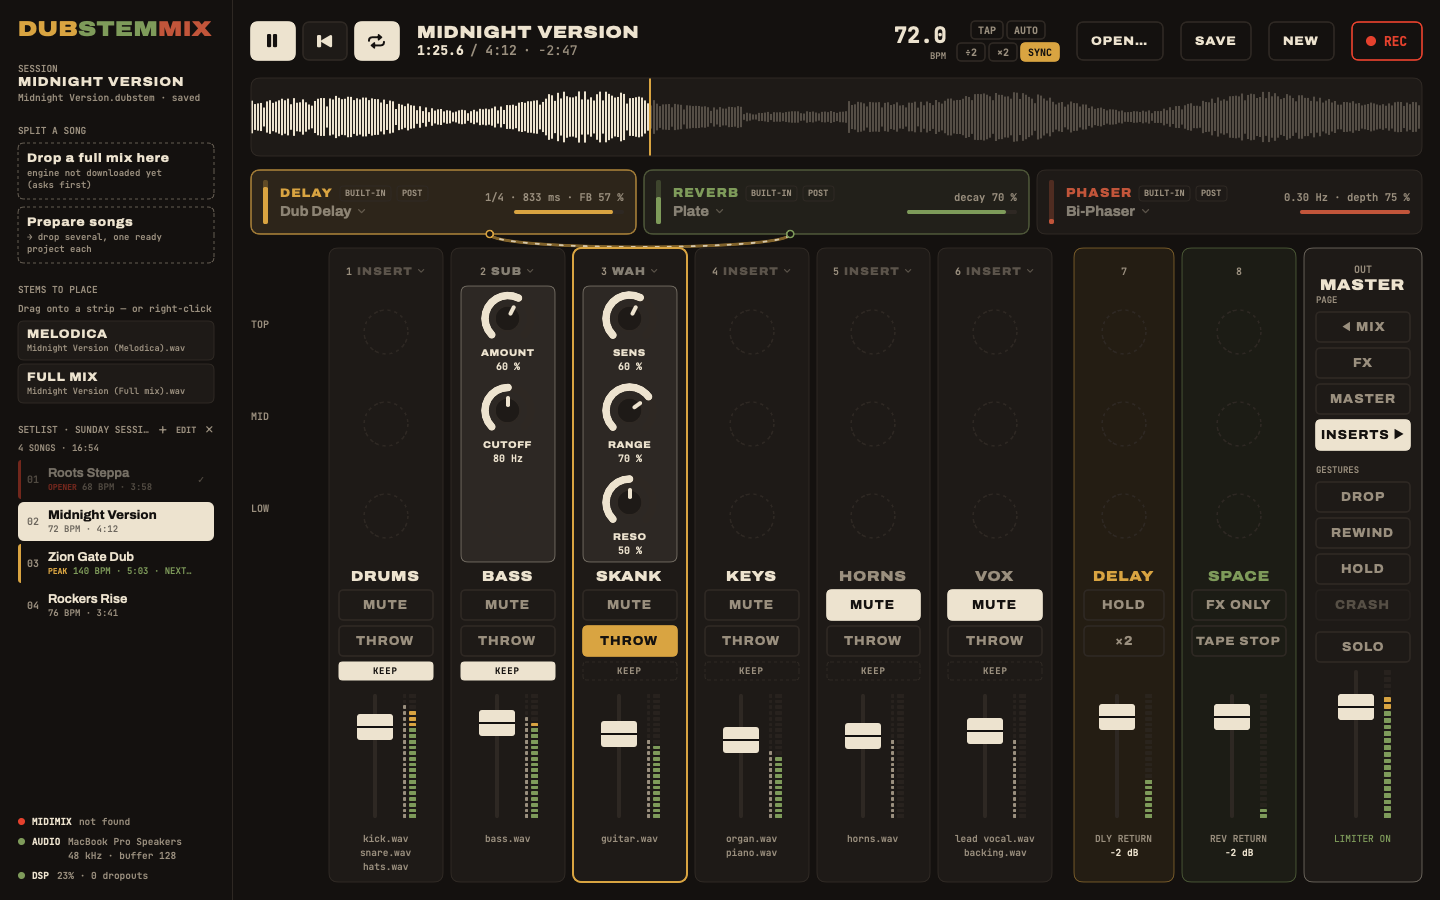
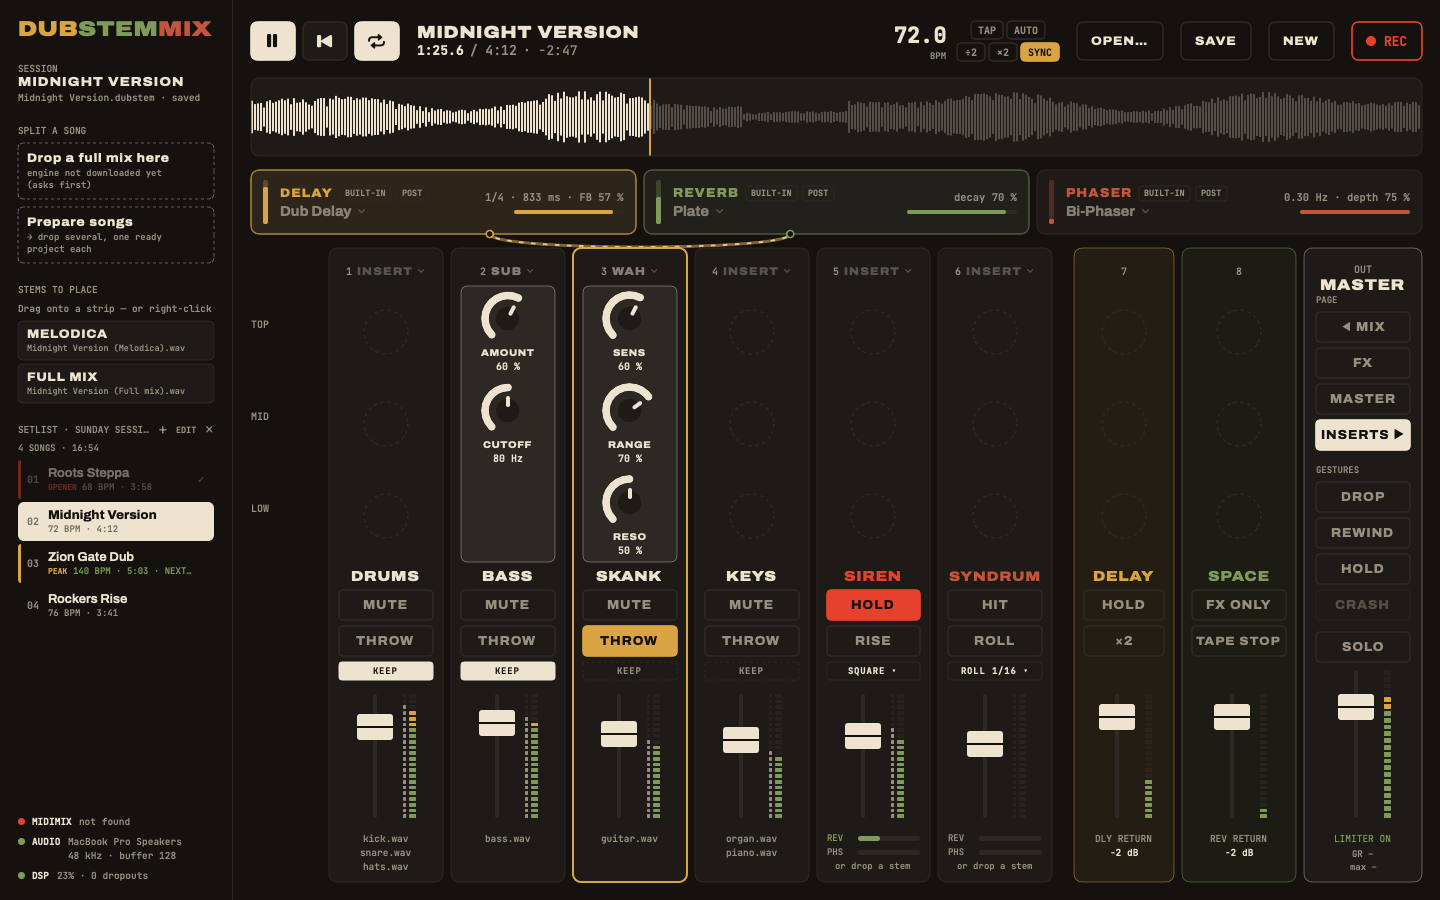
Docs: siren and Syndrum on strips 5 and 6, new screenshots
The demo now holds four stems, like a split song, so strips 5 and 6 show
the siren (held) and the Syndrum on every page capture. New crop of the
two instrument strips; the transport crop showed the middle of the window
and is taken from the top again.

diff --git a/Sources/DubStemMix/AppModel.swift b/Sources/DubStemMix/AppModel.swift
@@ -611,8 +611,6 @@ final class AppModel {
             ("BASS", ["bass.wav"], [0, 0, 0], 0.84, 0.74),
             ("SKANK", ["guitar.wav"], [0.62, 0.30, 0], 0.72, 0.55),
             ("KEYS", ["organ.wav", "piano.wav"], [0.25, 0.40, 0.55], 0.66, 0.48),
-            ("HORNS", ["horns.wav"], [0.45, 0.52, 0], 0.70, 0),
-            ("VOX", ["lead vocal.wav", "backing.wav"], [0.70, 0.45, 0], 0.76, 0),
         ]
         for (strip, (name, stems, sends, fader, level)) in demo.enumerated() {
             mix.setStems(strip: strip, name: name, stems: stems.map { .init(id: UUID(), name: $0) })
@@ -621,8 +619,13 @@ final class AppModel {
             levels[strip] = level
             levels[AudioEngine.stripPreMeter(strip)] = level > 0 ? min(1, level * 1.1) : 0.6 // muted strips still play
         }
-        mix.toggleMute(strip: 4)
-        mix.toggleMute(strip: 5)
+        // A split song leaves strips 5 and 6 empty: the siren sounds, through the delay and a touch of reverb.
+        mix.setFader(strip: 4, 0.7)
+        mix.setFader(strip: 5, 0.62)
+        mix.setInstrumentGesture(.siren, true)
+        mix.setFX(.sirenReverb, 0.35)
+        levels[4] = 0.62
+        levels[AudioEngine.stripPreMeter(4)] = 0.7
         mix.setThrow(strip: 2, true)
         mix.setKeep(strip: 0, true)
         mix.setKeep(strip: 1, true)

diff --git a/web/src/content/docs/the-board.md b/web/src/content/docs/the-board.md
@@ -1,16 +1,16 @@
 ---
 title: The board, control by control
 seoTitle: "The board: faders, knobs and pages · DubStemMix"
-description: "What every fader, knob and button of the Akai MIDImix does in DubStemMix: the six stem strips, the two effect strips, the MIX, FX, MASTER and INSERTS pages."
+description: "What every fader, knob and button of the Akai MIDImix does in DubStemMix: the six stem strips, the siren and the Syndrum, the two effect strips, the MIX, FX, MASTER and INSERTS pages."
 nav: The board
 order: 4
 ---
 
 The screen is a mirror of the MIDImix: eight strips and a master, in the same places. What you touch is where you look.
 
-![The MIX page: six stem strips, the DELAY and SPACE effect strips, the master column](../../assets/screenshots/mix.png)
+![The MIX page: four stems, the siren and the Syndrum on the empty strips 5 and 6, the DELAY and SPACE effect strips, the master column](../../assets/screenshots/mix.png)
 
-- **Strips 1 to 6** hold the stems.
+- **Strips 1 to 6** hold the stems. Left empty, **strip 5** plays a dub siren and **strip 6** a Syndrum.
 - **Strips 7 and 8** hold no stem: they play the effects.
 - **The right column** is the master: the page buttons, the gestures, the master fader.
 
@@ -92,9 +92,29 @@ Strips 5 to 8 have no knob on this page.
 
 ### INSERTS: one effect per strip
 
-Each stem strip can hold an effect of its own, between its stems and its fader: a **sub** generator, an **auto-wah**, or an Audio Unit plugin. Choose it from the **Insert** menu of the strip. On this page, the three knobs of the strip drive it.
+Each of strips 1 to 6 can hold an effect of its own (the siren and the Syndrum too), between its stems and its fader: a **sub** generator, an **auto-wah**, or an Audio Unit plugin. Choose it from the **Insert** menu of the strip. On this page, the three knobs of the strip drive it.
 
 ![The INSERTS page: sub on the bass, auto-wah on the skank](../../assets/screenshots/inserts.png)
+
+## The siren and the Syndrum, strips 5 and 6
+
+A split song fills strips 1 to 4, so 5 and 6 often stay empty. Then they play an instrument: **strip 5 a dub siren**, **strip 6 a Syndrum**, the electronic drum of late-seventies dub, the "piou" that falls in pitch.
+
+| | Strip 5 · SIREN | Strip 6 · SYNDRUM |
+|---|---|---|
+| Top knob | pitch | pitch |
+| Middle knob | rate: how fast it goes up and down | decay: how long a hit lasts |
+| Bottom knob | send to the delay | send to the delay |
+| Fader | volume | volume |
+| MUTE | **HOLD**: the siren sounds while held | **HIT**: one hit per press |
+| REC ARM held | **RISE**: the siren climbs two octaves, and comes down when you let go | **ROLL**: hits on the tempo |
+
+![Strips 5 and 6: the siren, held, and the Syndrum](../../assets/screenshots/docs/strip-instruments.png)
+
+- Both go into the **delay** from the start (bottom knob at 50 %): the echo keeps the siren turning after you let go.
+- With the mouse, on the strip: **SQUARE** or **TRIANGLE** for the siren (the square cuts through the mix, the triangle is softer), the roll's value for the Syndrum (eighths, triplets, sixteenths), and the **REV** and **PHS** bars, the sends to the reverb and bus 3. There is no knob left for them on the console. All of it is saved in the project.
+- **Drop a stem** on strip 5 or 6 and it is a stem strip again, with its own sends. Take its last stem off: the instrument comes back.
+- DROP leaves the siren and the Syndrum playing: you play them on purpose. PANIC stops them.
 
 ## The effect strips 7 and 8
 

diff --git a/web/src/content/docs/gestures.md b/web/src/content/docs/gestures.md
@@ -16,7 +16,7 @@ Each one works from the keyboard, from the **GESTURES** buttons of the right col
 
 <kbd>D</kbd> held, or **DROP**.
 
-Everything is cut except the strips marked **KEEP**. Mark the drums and the bass (click KEEP under each), hold D: you are on the riddim. Release: the whole tune comes back at once.
+Everything is cut except the strips marked **KEEP**, and the siren and the Syndrum (you play those on purpose). Mark the drums and the bass (click KEEP under each), hold D: you are on the riddim. Release: the whole tune comes back at once.
 
 The KEEP marks are saved in the project.
 
@@ -56,7 +56,7 @@ Between two tunes of a setlist, R pulls up **into the next one**: see [Playing l
 
 <kbd>Esc</kbd>, or **BANK LEFT + BANK RIGHT** together on the console.
 
-The delay, the reverb and bus 3 are emptied at once, echoes, tails, HOLD and TAPE STOP included. The tune keeps playing, dry. For the echo that howls too long.
+The delay, the reverb and bus 3 are emptied at once, echoes, tails, HOLD and TAPE STOP included, and the siren and the Syndrum's roll stop. The tune keeps playing, dry. For the echo that howls too long.
 
 ## On the effect strips
 
@@ -70,6 +70,19 @@ Strips 7 and 8 have their own held gestures: hold the button on screen, or MUTE 
 | TAPE STOP · REC ARM of strip 8 | **TAPE STOP**: the delay's tape brakes to a standstill, the echoes collapse; release and it speeds up again |
 
 ×2 and TAPE STOP play the built-in delay, not a plugin placed on the delay bus.
+
+## Siren and Syndrum
+
+When strips 5 and 6 hold no stem, their buttons play an instrument: hold the button on screen, or MUTE / REC ARM on the console. See [the siren and the Syndrum](../the-board/#the-siren-and-the-syndrum-strips-5-and-6).
+
+| | Gesture |
+|---|---|
+| HOLD · MUTE of strip 5 held | the **siren** sounds |
+| RISE · REC ARM of strip 5 held | the siren **climbs** two octaves, and comes back down when you let go |
+| HIT · MUTE of strip 6 | one **Syndrum** hit per press |
+| ROLL · REC ARM of strip 6 held | the Syndrum **rolls** on the tempo |
+
+> **The classic move.** Send the siren into the delay, blow it for a bar, let go: the echo keeps it wailing over the riddim.
 
 ## Other keys
 

diff --git a/TODO.md b/TODO.md
@@ -67,6 +67,6 @@
 - [x] Moteur : sirène (hauteur, modulation, montée) et Syndrum (coup, chute, roulement sur le tempo), envoi delay.
 - [x] Console : tranches 5-6 vides = instruments, un stem déposé les libère, l'instrument revient quand on retire le dernier stem.
 - [x] Écran : en-têtes et libellés des tranches 5-6 en mode instrument.
-- [ ] **[toi]** Essayer à la MIDImix : MUTE 5 tenu (sirène), REC ARM 5 pendant qu'elle sonne (montée), potards 5 (hauteur, vitesse, delay) ; MUTE 6 (un coup), REC ARM 6 tenu (roulement) ; carré / triangle et valeur du roulement à la souris ; un stem glissé sur la 5 puis retiré ; DROP pendant la sirène ; Esc pendant un roulement.
-- [ ] **[toi]** Juger le son à l'oreille (sirène, Syndrum) : niveaux, vitesse de la montée, longueur des coups.
-- [ ] Doc : README, site, captures.
+- [x] **[toi]** Essayer à la MIDImix (validé le 16/10, « c'est parfait ») : MUTE 5 tenu (sirène), REC ARM 5 pendant qu'elle sonne (montée), potards 5 (hauteur, vitesse, delay) ; MUTE 6 (un coup), REC ARM 6 tenu (roulement) ; carré / triangle et valeur du roulement à la souris ; un stem glissé sur la 5 puis retiré ; DROP pendant la sirène ; Esc pendant un roulement.
+- [x] **[toi]** Juger le son à l'oreille (sirène, Syndrum) : niveaux, vitesse de la montée, longueur des coups.
+- [x] Doc : site (The board, Gestures, Your first dub, Features, llms.txt, comparaison Amp FreQQ), README, captures MIX / FX / MASTER / INSERTS refaites avec la sirène (démo à 4 stems), nouvelle capture `docs/strip-instruments.png`, `docs/transport.png` recadrée (elle montrait le milieu de la fenêtre).

diff --git a/web/src/content/compare/amp-freqq.md b/web/src/content/compare/amp-freqq.md
@@ -26,7 +26,7 @@ Both are made for dub and both play on the **Akai MIDImix**. **DubStemMix** goes
 | Echo | tape delay, tempo sync, Space Echo heads, HOLD, ×2, tape stop | tape echo inspired by the HH Slider, two modes |
 | Reverb | plate or spring, with CRASH | reverb |
 | Preamp | stepped high-pass, 3-band kills, dubplate | 4-band isolator with kills, graphic and parametric EQ, resonant filter |
-| Siren, samples | no | yes: siren with snapshots, 12-slot sample player |
+| Siren, samples | dub siren and Syndrum on empty strips 5 and 6; no samples | siren with snapshots, 12-slot sample player |
 | Akai MIDImix | factory mapping, nothing to set up | official support, overlays, LED feedback, MIDI learn |
 | Platforms | macOS 15+, Apple Silicon | Windows and Mac |
 | Price | **free**, open source (MIT) | from £125; £200 with MIDImix overlays; £310 with the controller |
@@ -38,7 +38,7 @@ A complete sound-system preamp in software: isolator kills, EQs, a resonant filt
 ## Which one for you
 
 - **Pick DubStemMix** to build dub versions from the stems of a tune, on an Apple Silicon Mac, for free.
-- **Pick Amp FreQQ** to play finished tracks or vinyl through a sound-system preamp, with a siren and samples, or on Windows.
+- **Pick Amp FreQQ** to play finished tracks or vinyl through a sound-system preamp, with a sample player, or on Windows.
 
 They fit different moments: DubStemMix to cut and [record dub versions](../../docs/sets/#record-your-version) from stems, Amp FreQQ to play finished tracks through its preamp.
 

diff --git a/README.md b/README.md
@@ -2,13 +2,13 @@
 
 # DubStemMix
 
-**Version excursion for the Akai MIDImix.** Take the stems of a tune, put them on six faders, keep two more to play the effects, and cut your own version the way it was done at King Tubby's: pull the vocal, throw the snare into the echo, drop everything but bass and drums, let the spring crash. No DAW, no session to prepare, nothing to map.
+**Version excursion for the Akai MIDImix.** Take the stems of a tune, put them on six faders, keep two more to play the effects, and cut your own version the way it was done at King Tubby's: pull the vocal, throw the snare into the echo, drop everything but bass and drums, let the spring crash, blow the siren. No DAW, no session to prepare, nothing to map.
 
 Free and open source (MIT). macOS 15 or later, Apple Silicon. Native Swift and C, no Electron.
 
 **[Website](https://yoanbernabeu.github.io/DubStemMix/) · [Docs](https://yoanbernabeu.github.io/DubStemMix/docs/) · [Video](https://www.youtube.com/watch?v=bo1voaD_10Q) · [Releases](https://github.com/yoanbernabeu/DubStemMix/releases)**
 
-<p align="center"><img src="docs/screenshots/mix.png" width="100%" alt="DubStemMix, MIX page: six stem strips with sends to delay, reverb and phaser, then the two effect strips"></p>
+<p align="center"><img src="docs/screenshots/mix.png" width="100%" alt="DubStemMix, MIX page: four stem strips with sends to delay, reverb and phaser, the siren and the Syndrum, then the two effect strips"></p>
 
 ## Install
 

diff --git a/web/src/content/docs/first-dub.md b/web/src/content/docs/first-dub.md
@@ -101,6 +101,8 @@ Strips 7 and 8 hold no stem: they play the effects. Strip 7 is the **DELAY**.
 
 > The master limiter is on by default (LIMITER ON under the master fader): even a howling echo cannot clip the output.
 
+> **Strips 5 and 6 empty?** After a split they are: strip 5 is a **siren**, strip 6 a **Syndrum**. Hold MUTE on strip 5 for one bar, let go, and the delay carries it on. See [the siren and the Syndrum](../the-board/#the-siren-and-the-syndrum-strips-5-and-6).
+
 ## 7. Crash the spring
 
 On the **REVERB** card at the top, open the menu under its name (it says *Plate*) and choose **Spring**.
